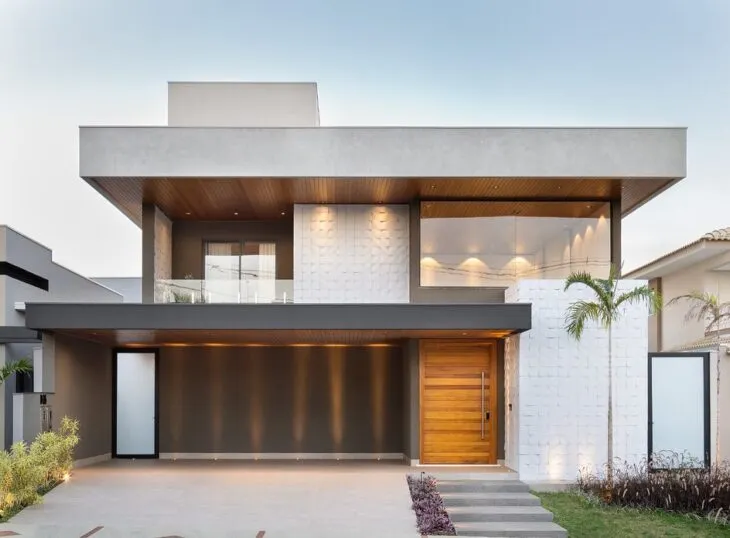
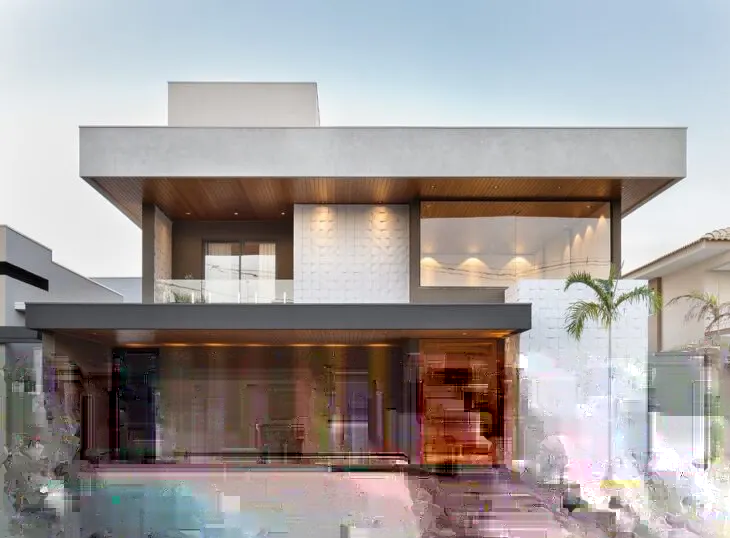
Add files via upload

Changed region(s): [[0.0, 0.6245, 1.0, 1.0]]

diff --git a/styles.css b/styles.css
@@ -1,3 +1,12 @@
+#indicador{
+background-color: rgb(87, 84, 84);
+border-radius: 10px;
+height: 35px;
+padding: 5px;
+justify-content: center;
+text-align: center;
+opacity: 8;
+}
 *{
     margin: 0;
     padding: 0;
@@ -7,6 +16,11 @@
 }
 body{
     background-color: #626962;
+    background-image: url();
+    background-position: center center;
+    background-repeat: no-repeat;
+    background-size: cover;
+    background-attachment: fixed;
 }
 header{
     background-color:rgb(44, 44, 43);
@@ -38,4 +52,49 @@ nav div a{
 nav div a:hover{
     border-bottom: 2px solid blACK;
     border-color: rgb(168, 103, 56);
+}
+.contenido{
+   height: 80vh;
+   display: grid;
+   place-items: center;
+
+}
+.contenidoservicios{
+   height: 80vh;
+   display: grid;
+   place-items: center;
+
+}
+.contenidocontactos{
+   height: 80vh;
+   display: grid;
+   place-items: center;
+
+}
+footer{
+    background-color:rgb(44, 44, 43);
+    padding: 10px;
+    text-align: center;
+}
+.galeria{
+    display: flex;
+    width: 508px;
+    height: 450px;
+    
+    
+}
+section img{
+    width: 0;
+    flex-grow: 1;
+    object-fit:cover;
+    opacity: 8;
+    transition: .5s ease;
+    border: rgb(49, 49, 49) 1px solid;
+}
+section img:hover{
+    cursor: crosshair;
+    width: 300px;
+    opacity: 1;
+    filter: contrast(120%);
+    border: #626962 solid 1px;
 }

diff --git a/SERVICIOS.HTML b/SERVICIOS.HTML
@@ -1,0 +1,33 @@
+<!DOCTYPE html>
+<html lang="en">
+<head>
+    <meta charset="UTF-8">
+    <meta name="viewport" content="width=device-width, initial-scale=1.0">
+    <title>servicios</title>
+    <link rel="stylesheet" href="styles.css">
+</head>
+<body>
+ <header>
+   <nav>
+      <img src="logocasa.webp" alt="logo">
+      <div>
+       <a href="index.html">Inicio</a>
+       <a id="indicador" href="SERVICIOS.HTML">Servicios</a>
+       <a href="CONTACTOS.HTML">Contactos</a>
+      </div>
+   
+ </header>
+ </nav>
+   <div class="contenidoservicios"> <div class="contenido">
+    <section class="galeria">
+      <img src="fondo2.webp" alt="">
+      <img src="fondocute.webp" alt="">
+      <img src="Diseño-Iluminación-vivienda.webp" alt="">
+    </section>
+  </div>
+</div>
+</nav>
+  
+ <footer>Create by: <b>Juan Diego Velarde Rojas - Fabrizio Thiago Guachalla Gutierrez</b></footer>
+</body>
+</html>

diff --git a/CONTACTOS.HTML b/CONTACTOS.HTML
@@ -3,7 +3,7 @@
 <head>
     <meta charset="UTF-8">
     <meta name="viewport" content="width=device-width, initial-scale=1.0">
-    <title>Document</title>
+    <title>contactos</title>
     <link rel="stylesheet" href="styles.css">
 </head>
 <body>
@@ -11,11 +11,15 @@
    <nav>
       <img src="logocasa.webp" alt="logo">
       <div>
-       <a href="index.html">Inicio.</a>
-       <a href="SERVICIOS.HTML">Servicios.</a>
-       <a href="CONTACTOS.HTML">Contactos. </a>
+       <a href="index.html">Inicio</a>
+       <a href="SERVICIOS.HTML">Servicios</a>
+       <a id="indicador" href="CONTACTOS.HTML">Contactos</a>
       </div>
-   </nav>
+   
  </header>
+ </nav>
+   <div class="contenidocontactos">contenido</div>
+
+ <footer>Create by: <b>Juan Diego Velarde Rojas - Fabrizio Thiago Guachalla Gutierrez</b></footer>
 </body>
 </html>

diff --git a/index.html b/index.html
@@ -11,11 +11,13 @@
    <nav>
       <img src="logocasa.webp" alt="logo">
       <div>
-       <a href="index.html">Inicio.</a>
-       <a href="SERVICIOS.HTML">Servicios.</a>
-       <a href="CONTACTOS.HTML">Contactos. </a>
+       <a id="indicador" href="index.html">Inicio</a>
+       <a href="SERVICIOS.HTML">Servicios</a>
+       <a href="CONTACTOS.HTML">Contactos</a>
       </div>
-   </nav>
+   
  </header>
+ <div class="contenido">contenido</div>
+ <footer>Create by: <b>Juan Diego Velarde Rojas - Fabrizio Thiago Guachalla Gutierrez</b></footer>
 </body>
 </html>